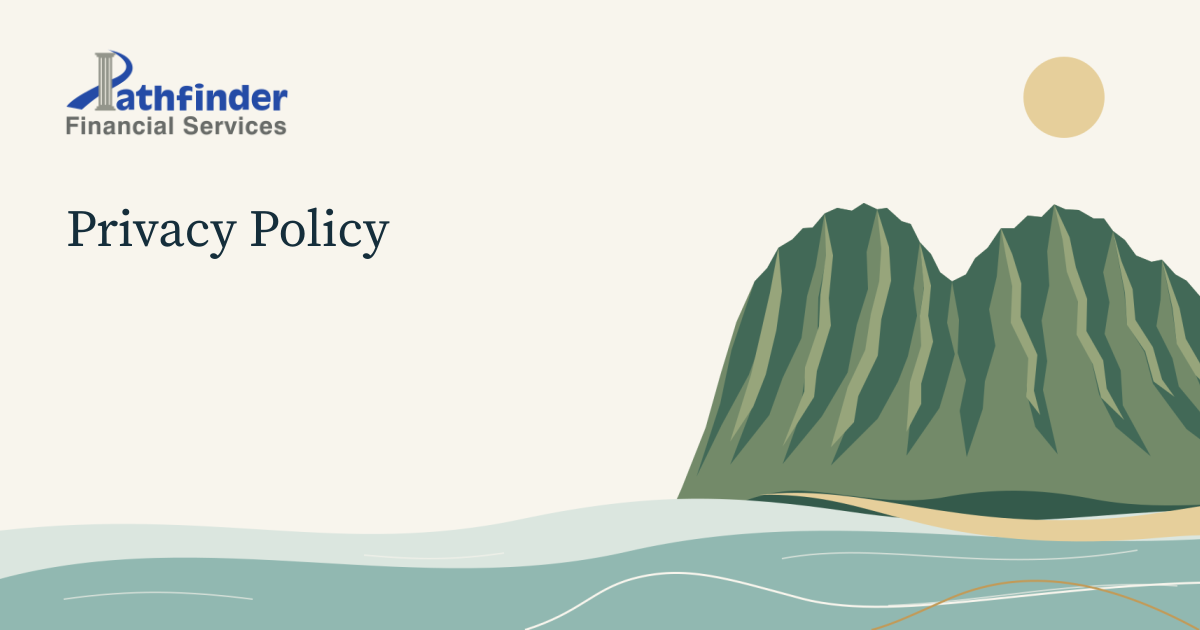
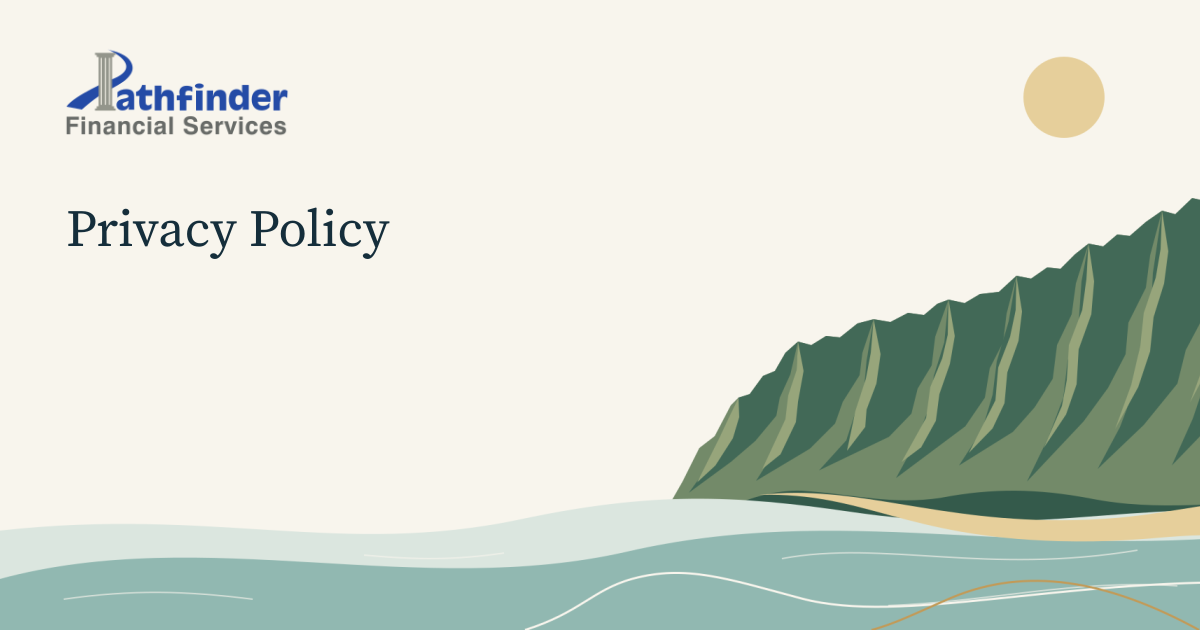
Shape Koolau artwork as one rising windward ridge

Changed region(s): [[0.5858, 0.3016, 1.0, 0.754], [0.555, 0.754, 0.5858, 0.7841]]

diff --git a/README.md b/README.md
@@ -59,15 +59,16 @@ the mark at least equal to the height of the "Financial Services" lettering.
 Use the icon at small sizes; do not compress the full wordmark into a square.
 The original logo is preserved in `Pathfinder-Heading-Final.svg`.
 
-The Windward landscape is an original vector illustration inspired by the Pali
-cliffs seen from Kailua and Maunawili, with a stylized ocean foreground. The
-desktop and mobile assets share the same cliff silhouette and ravine geometry.
-[Maunawili reference photography](https://oahuactivities.com/blogs/attractions/maunawili-falls/)
-informed the broad summit masses and fluted cliff faces. The single cliff wall
-uses tapered shadowed gullies, narrow ridge highlights, and one continuous lower
-slope; no photographic content is embedded in the artwork. The mobile composition
-reserves the artwork for the space below the homepage copy. The route motif and diagrams share navy,
-Pathfinder blue, teal, and a restrained gold accent.
+The Windward landscape is an original vector illustration inspired by the
+windward Koolau Range, with a stylized ocean foreground. The desktop and mobile
+assets share the same cliff silhouette and ravine geometry. The right-hand ridge
+in the [reference photograph](https://images.unsplash.com/photo-1684450313847-d7425d81d1c7)
+informed the continuous rise from left to right and the flutes descending toward
+the lower left. Tapered shadowed gullies and narrow highlights define the ridges
+above one continuous lower slope. No photographic content is embedded in the
+artwork. The mobile composition reserves the artwork for the space below the
+homepage copy. The route motif and diagrams share navy, Pathfinder blue, teal,
+and a restrained gold accent.
 
 The existing photographs are unaltered. David's source is 148 x 200 pixels;
 keep portrait placements close to that size until a larger authentic photograph
